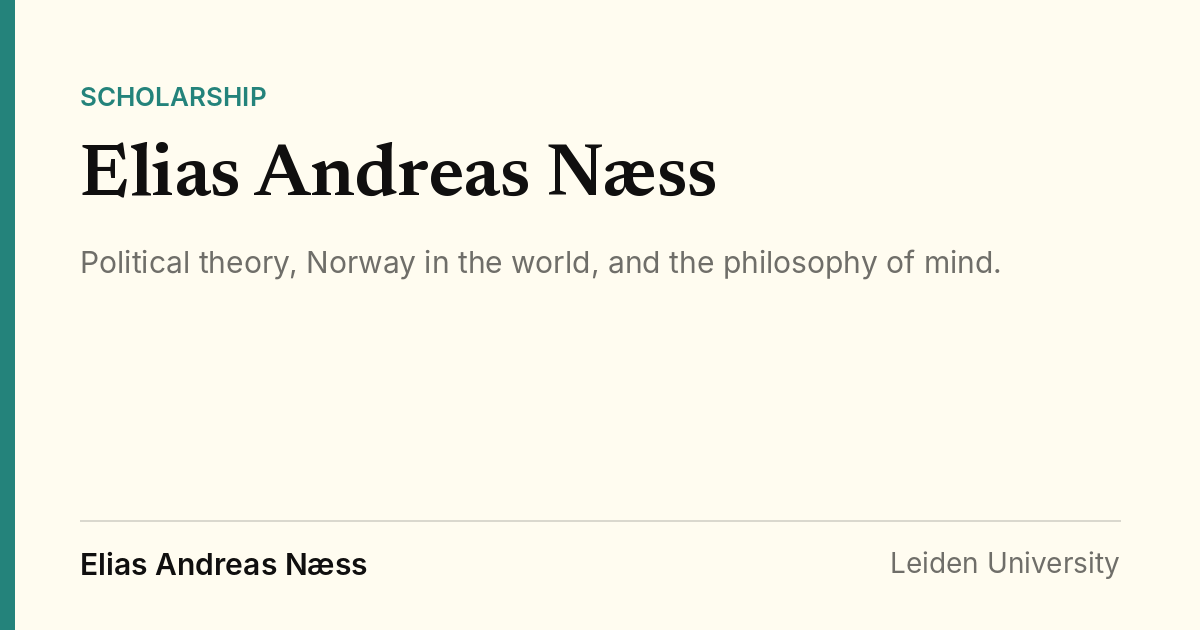
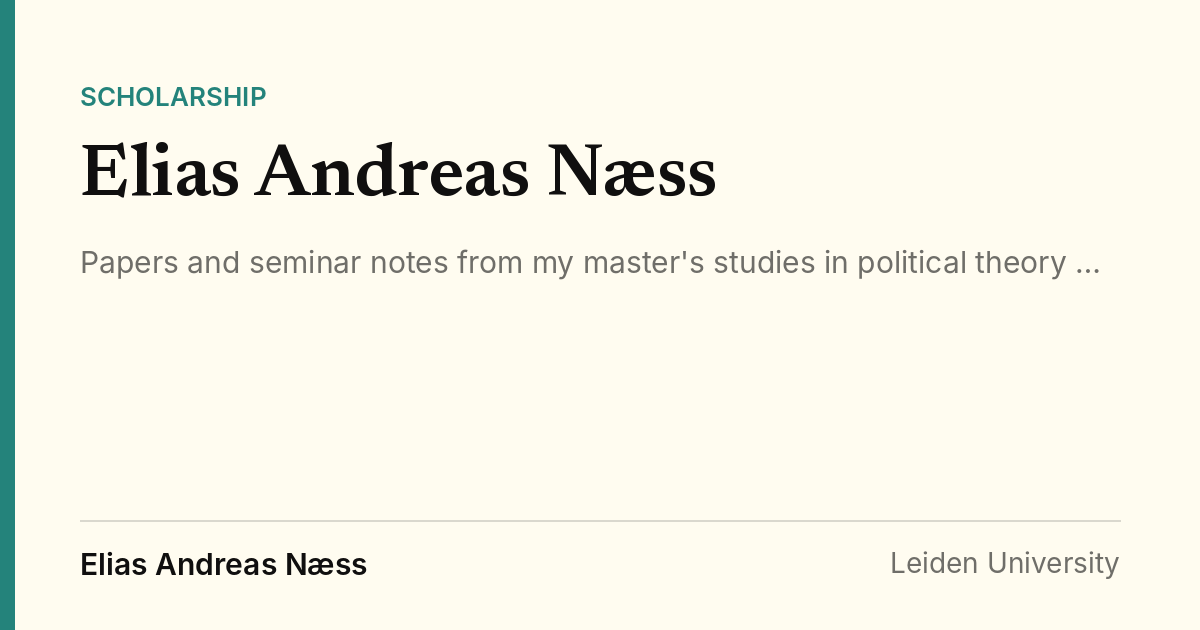
Front page: plain tagline, About moved to the bottom, question block removed; About in nav
Claude-Session: https://claude.ai/code/session_01CqBgnoFT7m6CRmES7NAjRE

Changed region(s): [[0.0925, 0.3921, 0.8942, 0.4524]]

diff --git a/docs/index.html b/docs/index.html
@@ -1,19 +1,17 @@
 <!doctype html><html lang="en"><head><meta charset="utf-8">
 <meta name="viewport" content="width=device-width,initial-scale=1">
-<title>Elias Andreas Næss</title><meta name="description" content="Political theory, Norway in the world, and the philosophy of mind.">
-<meta property="og:type" content="website"><meta property="og:title" content="Elias Andreas Næss"><meta property="og:description" content="Political theory, Norway in the world, and the philosophy of mind.">
+<title>Elias Andreas Næss</title><meta name="description" content="Papers and seminar notes from my master&#x27;s studies in political theory and philosophy at Leiden University.">
+<meta property="og:type" content="website"><meta property="og:title" content="Elias Andreas Næss"><meta property="og:description" content="Papers and seminar notes from my master&#x27;s studies in political theory and philosophy at Leiden University.">
 <meta property="og:site_name" content="Elias Andreas Næss"><meta property="og:url" content="https://eliasnaess.github.io/index.html">
 <meta property="og:image" content="https://eliasnaess.github.io/og/home.png"><meta property="og:image:width" content="1200"><meta property="og:image:height" content="630">
 <meta name="twitter:card" content="summary_large_image">
 <link rel="icon" href="favicon.svg"><link rel="stylesheet" href="style.css">
 </head><body>
-<header class="top"><a class="home" href="index.html">Elias Andreas Næss</a><nav><a href="classroom/index.html">Classroom</a><a href="index.html#papers">Papers</a><a href="index.html#courses">Courses</a></nav></header>
+<header class="top"><a class="home" href="index.html">Elias Andreas Næss</a><nav><a href="classroom/index.html">Classroom</a><a href="index.html#papers">Papers</a><a href="index.html#courses">Courses</a><a href="index.html#about">About</a></nav></header>
 <main><section class="intro">
-<h1>Elias Andreas Næss</h1><p class="tagline">Political theory, Norway in the world, and the philosophy of mind.</p>
-<p class="bio">I study political theory and philosophy at Leiden University (MSc Political Science; MPhil Philosophy of Law, Governance and Politics). Before that I worked at Norway&#x27;s Permanent Mission to the UN in New York and with UNDP in Nepal. I also co-run Elida Studio, a Scandinavian creative studio.</p><p class="links"><a href="https://www.linkedin.com/in/elias-naess/">LinkedIn</a> · <a href="https://helloelida.com">Elida Studio</a></p>
+<h1>Elias Andreas Næss</h1><p class="tagline">Papers and seminar notes from my master&#x27;s studies in political theory and philosophy at Leiden University.</p>
 </section>
-<blockquote class="question"><span>The question underneath my work</span>What justifies the power that institutions exercise over people&#x27;s lives?</blockquote>
-<section id="seminars"><h2>The Classroom <a class="more-link" href="classroom/index.html">all seminars →</a></h2><ul class="list"><li><a href="courses/consciousness-in-buddhism/2026-11-19-a-shared-world/index.html"><span class="t">Reframing the Idealism Debate I: A Shared World</span>
+<section id="seminars"><h2>The Classroom <a class="more-link" href="classroom/index.html">All seminars →</a></h2><p class="section-lede">A companion page for each seminar: a brief of the readings, two podcast takes and a short quiz.</p><ul class="list"><li><a href="courses/consciousness-in-buddhism/2026-11-19-a-shared-world/index.html"><span class="t">Reframing the Idealism Debate I: A Shared World</span>
 <span class="meta">Consciousness in Buddhism · Week 10 · 19 Nov 2026 · Brief · Podcast · Infographic · Quiz</span></a></li><li><a href="courses/weak-institutions/2026-11-19-non-compliance/index.html"><span class="t">Non-Compliance</span>
 <span class="meta">Weak Institutions · Class 8 · 19 Nov 2026 · Brief · Podcast · Quiz</span></a></li><li><a href="courses/weak-institutions/2026-11-17-delegation-discretion-agency/index.html"><span class="t">Delegation, Discretion, Ambiguity and Agency</span>
 <span class="meta">Weak Institutions · Class 7 · 17 Nov 2026 · Brief · Podcast · Quiz</span></a></li><li><a href="courses/qualitative-methods/2026-11-16-field-ethics-ethnography/index.html"><span class="t">Ethics of Field Research; Ethnographic Research</span>
@@ -30,7 +28,8 @@
 <span class="meta">The Self/No-Self Debate · June 2026 · 18 min read</span></a></li><li><a href="papers/evil-is-the-price-of-freedom/index.html"><span class="t">Evil is the Price we Pay for Freedom</span><span class="sub">Schelling and Rethinking Utopia</span>
 <span class="meta">German Idealism · January 2026 · 18 min read</span></a></li><li><a href="papers/the-judge-of-the-lawyer/index.html"><span class="t">The Judge of the Lawyer</span><span class="sub">Integrating Kantian Conscience into Haidt&#x27;s Social Intuitionist Model</span>
 <span class="meta">Practical Philosophy: Moral Judgment · January 2026 · 12 min read</span></a></li></ul></section>
-<section id="courses"><h2>Courses</h2><ul class="list"><li><a href="courses/consciousness-in-buddhism/index.html"><span class="t">Consciousness in Buddhism</span><span class="meta">Fall 2026 · 2 seminars</span></a></li><li><a href="courses/qualitative-methods/index.html"><span class="t">Qualitative Methods in Political Science</span><span class="meta">Fall 2026 · 3 seminars</span></a></li><li><a href="courses/weak-institutions/index.html"><span class="t">Weak Institutions</span><span class="meta">Fall 2026 · 4 seminars</span></a></li><li><a href="courses/core-gpe/index.html"><span class="t">Global Political Economy</span><span class="meta">Spring 2026 · 1 paper</span></a></li><li><a href="courses/philosophy-of-governance/index.html"><span class="t">Philosophy of Governance</span><span class="meta">Spring 2026 · 1 paper</span></a></li><li><a href="courses/privacy-in-democracies/index.html"><span class="t">Concealment and Disclosure: Privacy in Democracies</span><span class="meta">Spring 2026 · 1 paper</span></a></li><li><a href="courses/self-no-self/index.html"><span class="t">The Self/No-Self Debate</span><span class="meta">Spring 2026 · 1 paper</span></a></li><li><a href="courses/freedom-justice-equality/index.html"><span class="t">Freedom, Justice and Equality</span><span class="meta">Fall 2025 · 1 paper</span></a></li><li><a href="courses/german-idealism/index.html"><span class="t">German Idealism</span><span class="meta">Fall 2025 · 1 paper</span></a></li><li><a href="courses/moral-judgment/index.html"><span class="t">Practical Philosophy: Moral Judgment</span><span class="meta">Fall 2025 · 1 paper</span></a></li><li><a href="courses/pp-contemporary-debates/index.html"><span class="t">Practical Philosophy: Contemporary Debates</span><span class="meta">Fall 2025 · 1 paper</span></a></li></ul></section></main>
+<section id="courses"><h2>Courses</h2><ul class="list"><li><a href="courses/consciousness-in-buddhism/index.html"><span class="t">Consciousness in Buddhism</span><span class="meta">Fall 2026 · 2 seminars</span></a></li><li><a href="courses/qualitative-methods/index.html"><span class="t">Qualitative Methods in Political Science</span><span class="meta">Fall 2026 · 3 seminars</span></a></li><li><a href="courses/weak-institutions/index.html"><span class="t">Weak Institutions</span><span class="meta">Fall 2026 · 4 seminars</span></a></li><li><a href="courses/core-gpe/index.html"><span class="t">Global Political Economy</span><span class="meta">Spring 2026 · 1 paper</span></a></li><li><a href="courses/philosophy-of-governance/index.html"><span class="t">Philosophy of Governance</span><span class="meta">Spring 2026 · 1 paper</span></a></li><li><a href="courses/privacy-in-democracies/index.html"><span class="t">Concealment and Disclosure: Privacy in Democracies</span><span class="meta">Spring 2026 · 1 paper</span></a></li><li><a href="courses/self-no-self/index.html"><span class="t">The Self/No-Self Debate</span><span class="meta">Spring 2026 · 1 paper</span></a></li><li><a href="courses/freedom-justice-equality/index.html"><span class="t">Freedom, Justice and Equality</span><span class="meta">Fall 2025 · 1 paper</span></a></li><li><a href="courses/german-idealism/index.html"><span class="t">German Idealism</span><span class="meta">Fall 2025 · 1 paper</span></a></li><li><a href="courses/moral-judgment/index.html"><span class="t">Practical Philosophy: Moral Judgment</span><span class="meta">Fall 2025 · 1 paper</span></a></li><li><a href="courses/pp-contemporary-debates/index.html"><span class="t">Practical Philosophy: Contemporary Debates</span><span class="meta">Fall 2025 · 1 paper</span></a></li></ul></section>
+<section id="about" class="about"><h2>About</h2><p class="bio">I&#x27;m a Norwegian master&#x27;s student at Leiden University, in political theory and the philosophy of law and politics. Before that I worked at Norway&#x27;s Permanent Mission to the UN in New York and with UNDP in Nepal. I also co-run Elida Studio, a creative studio.</p><p class="links"><a href="https://www.linkedin.com/in/elias-naess/">LinkedIn</a> · <a href="https://helloelida.com">Elida Studio</a></p></section></main>
 <footer class="foot"><span>© 2026 Elias Andreas Næss</span><a href="https://www.linkedin.com/in/elias-naess/">LinkedIn</a><a href="https://helloelida.com">Elida Studio</a></footer>
 <script src="site.js" defer></script>
 </body></html>

diff --git a/docs/style.css b/docs/style.css
@@ -24,8 +24,8 @@ h1,h2{text-wrap:balance}
 :focus-visible{outline:2px solid var(--acc);outline-offset:2px}
 
 .top{max-width:760px;margin:0 auto;padding-block:22px;padding-left:max(20px,env(safe-area-inset-left,0px));padding-right:max(20px,env(safe-area-inset-right,0px));display:flex;justify-content:space-between;align-items:center;gap:16px}
-.top .home{font:600 17px var(--serif);text-decoration:none}
-.top nav{display:flex;gap:18px;font-size:14px;color:var(--mute)}.top nav a{text-decoration:none}.top nav a:hover{color:var(--ink)}
+.top{flex-wrap:wrap;row-gap:8px}.top .home{font:600 17px var(--serif);text-decoration:none;white-space:nowrap}
+.top nav{display:flex;flex-wrap:wrap;gap:6px 18px;font-size:14px;color:var(--mute)}.top nav a{text-decoration:none}.top nav a:hover{color:var(--ink)}
 
 h1{font:600 clamp(32px,6vw,46px)/1.1 var(--serif);letter-spacing:-.01em;margin:8px 0 10px}
 h2{font:600 26px/1.25 var(--serif);margin:52px 0 14px}
@@ -35,10 +35,11 @@ h3{font:600 13px var(--sans);letter-spacing:.08em;text-transform:uppercase;color
 .lead{font:500 20px/1.5 var(--serif);color:var(--ink);margin:14px 0 22px}
 .subtitle{font:italic 500 22px/1.35 var(--serif);color:var(--mute);margin:0 0 8px}
 
-.intro{padding:36px 0 8px}.tagline{font:italic 500 22px/1.4 var(--serif);color:var(--mute);margin:0 0 20px}
-.bio{max-width:620px;color:var(--ink)}.links{font-size:14px;color:var(--mute)}
-.question{margin:36px 0 8px;padding:26px 28px;background:var(--bg2);border-radius:14px;font:italic 500 24px/1.4 var(--serif)}
-.question span{display:block;font:600 12px var(--sans);font-style:normal;letter-spacing:.08em;text-transform:uppercase;color:var(--acc);margin-bottom:8px}
+.intro{padding:40px 0 4px}.tagline{font:italic 500 22px/1.4 var(--serif);color:var(--mute);margin:0;max-width:600px;text-wrap:pretty}
+section[id]{scroll-margin-top:16px}
+.section-lede{color:var(--mute);margin:-6px 0 14px;max-width:600px}
+.about{margin-top:72px}
+.bio{max-width:620px;color:var(--ink);margin:0 0 10px}.links{font-size:14px;color:var(--mute);margin:0}
 
 .list{list-style:none;margin:0;padding:0}
 .list li{border-top:1px solid var(--line)}.list li:last-child{border-bottom:1px solid var(--line)}

diff --git a/src/style.css b/src/style.css
@@ -24,8 +24,8 @@ h1,h2{text-wrap:balance}
 :focus-visible{outline:2px solid var(--acc);outline-offset:2px}
 
 .top{max-width:760px;margin:0 auto;padding-block:22px;padding-left:max(20px,env(safe-area-inset-left,0px));padding-right:max(20px,env(safe-area-inset-right,0px));display:flex;justify-content:space-between;align-items:center;gap:16px}
-.top .home{font:600 17px var(--serif);text-decoration:none}
-.top nav{display:flex;gap:18px;font-size:14px;color:var(--mute)}.top nav a{text-decoration:none}.top nav a:hover{color:var(--ink)}
+.top{flex-wrap:wrap;row-gap:8px}.top .home{font:600 17px var(--serif);text-decoration:none;white-space:nowrap}
+.top nav{display:flex;flex-wrap:wrap;gap:6px 18px;font-size:14px;color:var(--mute)}.top nav a{text-decoration:none}.top nav a:hover{color:var(--ink)}
 
 h1{font:600 clamp(32px,6vw,46px)/1.1 var(--serif);letter-spacing:-.01em;margin:8px 0 10px}
 h2{font:600 26px/1.25 var(--serif);margin:52px 0 14px}
@@ -35,10 +35,11 @@ h3{font:600 13px var(--sans);letter-spacing:.08em;text-transform:uppercase;color
 .lead{font:500 20px/1.5 var(--serif);color:var(--ink);margin:14px 0 22px}
 .subtitle{font:italic 500 22px/1.35 var(--serif);color:var(--mute);margin:0 0 8px}
 
-.intro{padding:36px 0 8px}.tagline{font:italic 500 22px/1.4 var(--serif);color:var(--mute);margin:0 0 20px}
-.bio{max-width:620px;color:var(--ink)}.links{font-size:14px;color:var(--mute)}
-.question{margin:36px 0 8px;padding:26px 28px;background:var(--bg2);border-radius:14px;font:italic 500 24px/1.4 var(--serif)}
-.question span{display:block;font:600 12px var(--sans);font-style:normal;letter-spacing:.08em;text-transform:uppercase;color:var(--acc);margin-bottom:8px}
+.intro{padding:40px 0 4px}.tagline{font:italic 500 22px/1.4 var(--serif);color:var(--mute);margin:0;max-width:600px;text-wrap:pretty}
+section[id]{scroll-margin-top:16px}
+.section-lede{color:var(--mute);margin:-6px 0 14px;max-width:600px}
+.about{margin-top:72px}
+.bio{max-width:620px;color:var(--ink);margin:0 0 10px}.links{font-size:14px;color:var(--mute);margin:0}
 
 .list{list-style:none;margin:0;padding:0}
 .list li{border-top:1px solid var(--line)}.list li:last-child{border-bottom:1px solid var(--line)}

diff --git a/docs/classroom/index.html b/docs/classroom/index.html
@@ -7,7 +7,7 @@
 <meta name="twitter:card" content="summary_large_image">
 <link rel="icon" href="../favicon.svg"><link rel="stylesheet" href="../style.css">
 </head><body>
-<header class="top"><a class="home" href="../index.html">Elias Andreas Næss</a><nav><a href="../classroom/index.html">Classroom</a><a href="../index.html#papers">Papers</a><a href="../index.html#courses">Courses</a></nav></header>
+<header class="top"><a class="home" href="../index.html">Elias Andreas Næss</a><nav><a href="../classroom/index.html">Classroom</a><a href="../index.html#papers">Papers</a><a href="../index.html#courses">Courses</a><a href="../index.html#about">About</a></nav></header>
 <main><article class="course"><p class="kicker">Leiden University · Seminar companions</p><h1>The Classroom</h1><p class="lead">One page per seminar: what the readings ask, the key concepts and cases, two podcast takes, and a short quiz to check you got it. Read, listen, test.</p><h2>Consciousness in Buddhism</h2><ul class="list"><li><a href="../courses/consciousness-in-buddhism/2026-11-19-a-shared-world/index.html"><span class="t">Reframing the Idealism Debate I: A Shared World</span>
 <span class="meta">Consciousness in Buddhism · Week 10 · 19 Nov 2026 · Brief · Podcast · Infographic · Quiz</span></a></li><li><a href="../courses/consciousness-in-buddhism/2026-11-12-intentional-structure-of-consciousness/index.html"><span class="t">Later Chinese Yogācāra II: The Intentional Structure of Consciousness</span>
 <span class="meta">Consciousness in Buddhism · Week 9 · 12 Nov 2026 · Brief · Podcast · Infographic · Quiz</span></a></li></ul><h2>Qualitative Methods in Political Science</h2><ul class="list"><li><a href="../courses/qualitative-methods/2026-11-16-field-ethics-ethnography/index.html"><span class="t">Ethics of Field Research; Ethnographic Research</span>

diff --git a/docs/courses/weak-institutions/2026-11-17-delegation-discretion-agency/index.html b/docs/courses/weak-institutions/2026-11-17-delegation-discretion-agency/index.html
@@ -7,7 +7,7 @@
 <meta name="twitter:card" content="summary_large_image">
 <link rel="icon" href="../../../favicon.svg"><link rel="stylesheet" href="../../../style.css">
 </head><body>
-<header class="top"><a class="home" href="../../../index.html">Elias Andreas Næss</a><nav><a href="../../../classroom/index.html">Classroom</a><a href="../../../index.html#papers">Papers</a><a href="../../../index.html#courses">Courses</a></nav></header>
+<header class="top"><a class="home" href="../../../index.html">Elias Andreas Næss</a><nav><a href="../../../classroom/index.html">Classroom</a><a href="../../../index.html#papers">Papers</a><a href="../../../index.html#courses">Courses</a><a href="../../../index.html#about">About</a></nav></header>
 <main><article class="seminar">
 <p class="kicker"><a href="../../../classroom/index.html">The Classroom</a> · <a href="../index.html">Weak Institutions</a> · Class 7 · 17 Nov 2026</p>
 <h1>Delegation, Discretion, Ambiguity and Agency</h1><p class="lead">Every rule has to pass through someone. Van Aken and Lewis show Chinese provinces using their autonomy to skip energy targets, Hassan shows Kenya&#x27;s executive bureaucracy outliving the constitution meant to tame it, Lotta, Nieto-Morales and Peeters bring frontline workers into the study of weak institutions, Mohammed shows Ghanaian hospital staff rationing care by who looks like a &quot;villager&quot;, and Ehrhardt shows Kano officials filling an undefined rule with local norms of belonging.</p>

diff --git a/docs/courses/consciousness-in-buddhism/2026-11-12-intentional-structure-of-consciousness/index.html b/docs/courses/consciousness-in-buddhism/2026-11-12-intentional-structure-of-consciousness/index.html
@@ -7,7 +7,7 @@
 <meta name="twitter:card" content="summary_large_image">
 <link rel="icon" href="../../../favicon.svg"><link rel="stylesheet" href="../../../style.css">
 </head><body>
-<header class="top"><a class="home" href="../../../index.html">Elias Andreas Næss</a><nav><a href="../../../classroom/index.html">Classroom</a><a href="../../../index.html#papers">Papers</a><a href="../../../index.html#courses">Courses</a></nav></header>
+<header class="top"><a class="home" href="../../../index.html">Elias Andreas Næss</a><nav><a href="../../../classroom/index.html">Classroom</a><a href="../../../index.html#papers">Papers</a><a href="../../../index.html#courses">Courses</a><a href="../../../index.html#about">About</a></nav></header>
 <main><article class="seminar">
 <p class="kicker"><a href="../../../classroom/index.html">The Classroom</a> · <a href="../index.html">Consciousness in Buddhism</a> · Week 9 · 12 Nov 2026</p>
 <h1>Later Chinese Yogācāra II: The Intentional Structure of Consciousness</h1><p class="lead">How do you explain continuity, a sense of self and a shared world without a self or external objects? Xuanzang&#x27;s answer runs through the store consciousness, manas and the six sense consciousnesses, and Tao Jiang reads it as a &quot;qualified metaphysical idealism&quot; that turns causality into grounding, with an unresolved tension between intentional analysis and causal explanation.</p>

diff --git a/docs/courses/weak-institutions/2026-11-12-societys-role-in-state-capacity/index.html b/docs/courses/weak-institutions/2026-11-12-societys-role-in-state-capacity/index.html
@@ -7,7 +7,7 @@
 <meta name="twitter:card" content="summary_large_image">
 <link rel="icon" href="../../../favicon.svg"><link rel="stylesheet" href="../../../style.css">
 </head><body>
-<header class="top"><a class="home" href="../../../index.html">Elias Andreas Næss</a><nav><a href="../../../classroom/index.html">Classroom</a><a href="../../../index.html#papers">Papers</a><a href="../../../index.html#courses">Courses</a></nav></header>
+<header class="top"><a class="home" href="../../../index.html">Elias Andreas Næss</a><nav><a href="../../../classroom/index.html">Classroom</a><a href="../../../index.html#papers">Papers</a><a href="../../../index.html#courses">Courses</a><a href="../../../index.html#about">About</a></nav></header>
 <main><article class="seminar">
 <p class="kicker"><a href="../../../classroom/index.html">The Classroom</a> · <a href="../index.html">Weak Institutions</a> · Class 6 · 12 Nov 2026</p>
 <h1>Society&#x27;s Role in Building State Capacity</h1><p class="lead">What can society do for a state that can barely see or reach it? Charnysh shows that famine relief followed legibility, Tsai, Morse and Blair show that trusted local canvassers made Liberia&#x27;s Ebola campaign credible, Grossman and colleagues show communities refusing the polio vaccine to bargain for other services, and Amengual and Dargent show social groups blocking or coproducing enforcement.</p>

diff --git a/docs/courses/qualitative-methods/2026-11-16-field-ethics-ethnography/index.html b/docs/courses/qualitative-methods/2026-11-16-field-ethics-ethnography/index.html
@@ -7,7 +7,7 @@
 <meta name="twitter:card" content="summary_large_image">
 <link rel="icon" href="../../../favicon.svg"><link rel="stylesheet" href="../../../style.css">
 </head><body>
-<header class="top"><a class="home" href="../../../index.html">Elias Andreas Næss</a><nav><a href="../../../classroom/index.html">Classroom</a><a href="../../../index.html#papers">Papers</a><a href="../../../index.html#courses">Courses</a></nav></header>
+<header class="top"><a class="home" href="../../../index.html">Elias Andreas Næss</a><nav><a href="../../../classroom/index.html">Classroom</a><a href="../../../index.html#papers">Papers</a><a href="../../../index.html#courses">Courses</a><a href="../../../index.html#about">About</a></nav></header>
 <main><article class="seminar">
 <p class="kicker"><a href="../../../classroom/index.html">The Classroom</a> · <a href="../index.html">Qualitative Methods in Political Science</a> · Week 4 · 16 Nov 2026</p>
 <h1>Ethics of Field Research; Ethnographic Research</h1><p class="lead">What do we owe the people we study, and what can immersion teach us that other methods miss? The Belmont Report sets out the principles behind every ethics review, Wedeen and Pisano make the case for ethnography as a rigorous way of knowing politics, and Lebovits and Duquette-Rury show what preparing for the field and acting ethically inside it look like in practice.</p>

diff --git a/docs/courses/consciousness-in-buddhism/2026-11-19-a-shared-world/index.html b/docs/courses/consciousness-in-buddhism/2026-11-19-a-shared-world/index.html
@@ -7,7 +7,7 @@
 <meta name="twitter:card" content="summary_large_image">
 <link rel="icon" href="../../../favicon.svg"><link rel="stylesheet" href="../../../style.css">
 </head><body>
-<header class="top"><a class="home" href="../../../index.html">Elias Andreas Næss</a><nav><a href="../../../classroom/index.html">Classroom</a><a href="../../../index.html#papers">Papers</a><a href="../../../index.html#courses">Courses</a></nav></header>
+<header class="top"><a class="home" href="../../../index.html">Elias Andreas Næss</a><nav><a href="../../../classroom/index.html">Classroom</a><a href="../../../index.html#papers">Papers</a><a href="../../../index.html#courses">Courses</a><a href="../../../index.html#about">About</a></nav></header>
 <main><article class="seminar">
 <p class="kicker"><a href="../../../classroom/index.html">The Classroom</a> · <a href="../index.html">Consciousness in Buddhism</a> · Week 10 · 19 Nov 2026</p>
 <h1>Reframing the Idealism Debate I: A Shared World</h1><p class="lead">If everything is consciousness only, how do we share a world? Xuanzang lays out the proofs and the first objections, Kachru argues that vikalpa can name the stage a world appears on and not only the act of conceptualising, and Li reads Kuiji&#x27;s shared lifeworld as something built, and changed, together.</p>

diff --git a/docs/courses/weak-institutions/2026-11-19-non-compliance/index.html b/docs/courses/weak-institutions/2026-11-19-non-compliance/index.html
@@ -7,7 +7,7 @@
 <meta name="twitter:card" content="summary_large_image">
 <link rel="icon" href="../../../favicon.svg"><link rel="stylesheet" href="../../../style.css">
 </head><body>
-<header class="top"><a class="home" href="../../../index.html">Elias Andreas Næss</a><nav><a href="../../../classroom/index.html">Classroom</a><a href="../../../index.html#papers">Papers</a><a href="../../../index.html#courses">Courses</a></nav></header>
+<header class="top"><a class="home" href="../../../index.html">Elias Andreas Næss</a><nav><a href="../../../classroom/index.html">Classroom</a><a href="../../../index.html#papers">Papers</a><a href="../../../index.html#courses">Courses</a><a href="../../../index.html#about">About</a></nav></header>
 <main><article class="seminar">
 <p class="kicker"><a href="../../../classroom/index.html">The Classroom</a> · <a href="../index.html">Weak Institutions</a> · Class 8 · 19 Nov 2026</p>
 <h1>Non-Compliance</h1><p class="lead">Why do people obey the state, and what does it mean when they don&#x27;t? Levi and Sacks tie willing compliance to effective and fair government, Tsai shows Chinese villagers breaking rules to tell officials a policy is wrong, and Velasco-Guachalla and colleagues show Bolivia&#x27;s COVID-19 rules splitting along lines of contested legitimacy.</p>

diff --git a/docs/courses/qualitative-methods/2026-11-16-quiz-prep/index.html b/docs/courses/qualitative-methods/2026-11-16-quiz-prep/index.html
@@ -7,7 +7,7 @@
 <meta name="twitter:card" content="summary_large_image">
 <link rel="icon" href="../../../favicon.svg"><link rel="stylesheet" href="../../../style.css">
 </head><body>
-<header class="top"><a class="home" href="../../../index.html">Elias Andreas Næss</a><nav><a href="../../../classroom/index.html">Classroom</a><a href="../../../index.html#papers">Papers</a><a href="../../../index.html#courses">Courses</a></nav></header>
+<header class="top"><a class="home" href="../../../index.html">Elias Andreas Næss</a><nav><a href="../../../classroom/index.html">Classroom</a><a href="../../../index.html#papers">Papers</a><a href="../../../index.html#courses">Courses</a><a href="../../../index.html#about">About</a></nav></header>
 <main><article class="seminar prep">
 <p class="kicker"><a href="../../../classroom/index.html">The Classroom</a> · <a href="../index.html">Qualitative Methods in Political Science</a> · Quiz prep · 16 Nov 2026</p>
 <h1>Quiz Prep: Weeks 1–3</h1><p class="lead">Everything for Monday&#x27;s multiple-choice quiz in one place — a map of all eleven readings, the four tables worth knowing cold, 78 flashcards, 65 practice questions with explanations, a timed mock quiz, short-answer drills and the classic traps, plus NotebookLM podcasts and infographics.</p>

diff --git a/docs/courses/weak-institutions/2026-11-10-state-capacity/index.html b/docs/courses/weak-institutions/2026-11-10-state-capacity/index.html
@@ -7,7 +7,7 @@
 <meta name="twitter:card" content="summary_large_image">
 <link rel="icon" href="../../../favicon.svg"><link rel="stylesheet" href="../../../style.css">
 </head><body>
-<header class="top"><a class="home" href="../../../index.html">Elias Andreas Næss</a><nav><a href="../../../classroom/index.html">Classroom</a><a href="../../../index.html#papers">Papers</a><a href="../../../index.html#courses">Courses</a></nav></header>
+<header class="top"><a class="home" href="../../../index.html">Elias Andreas Næss</a><nav><a href="../../../classroom/index.html">Classroom</a><a href="../../../index.html#papers">Papers</a><a href="../../../index.html#courses">Courses</a><a href="../../../index.html#about">About</a></nav></header>
 <main><article class="seminar">
 <p class="kicker"><a href="../../../classroom/index.html">The Classroom</a> · <a href="../index.html">Weak Institutions</a> · Class 5 · 10 Nov 2026</p>
 <h1>State Capacity</h1><p class="lead">Why are some states unable to tax, govern or keep their promises? Herbst says peace and frozen borders let weak states survive without building capacity, Cole shows that capacity, not treaty ratification, drives human-rights compliance, and Scott shows what states have to simplify in order to see at all.</p>
